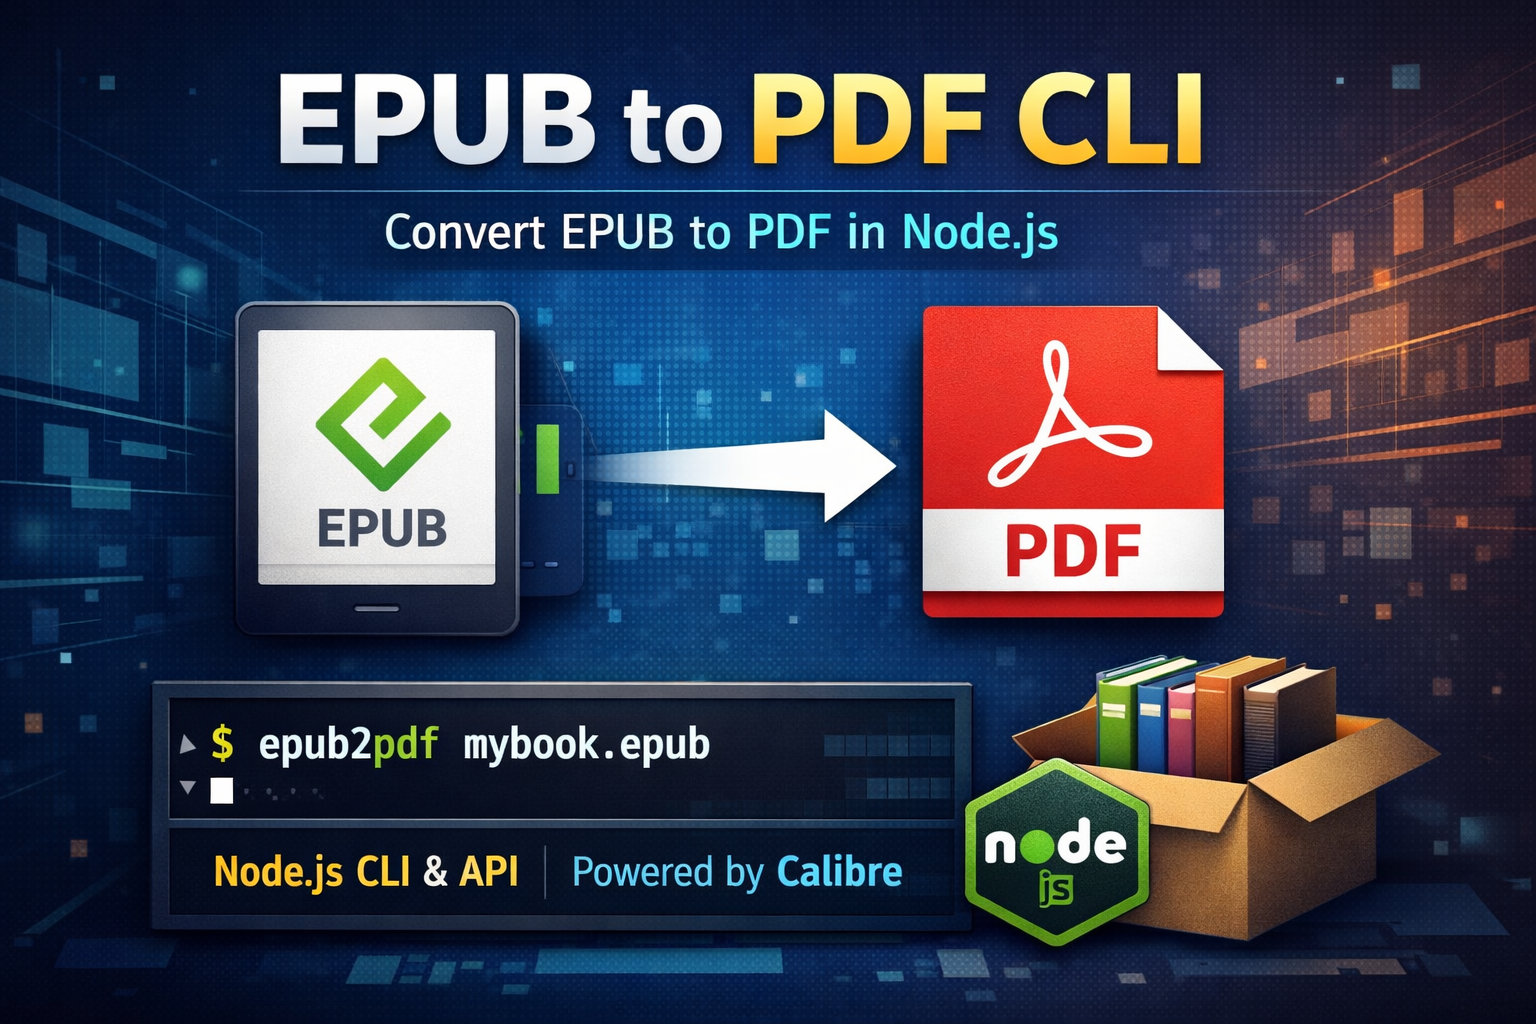
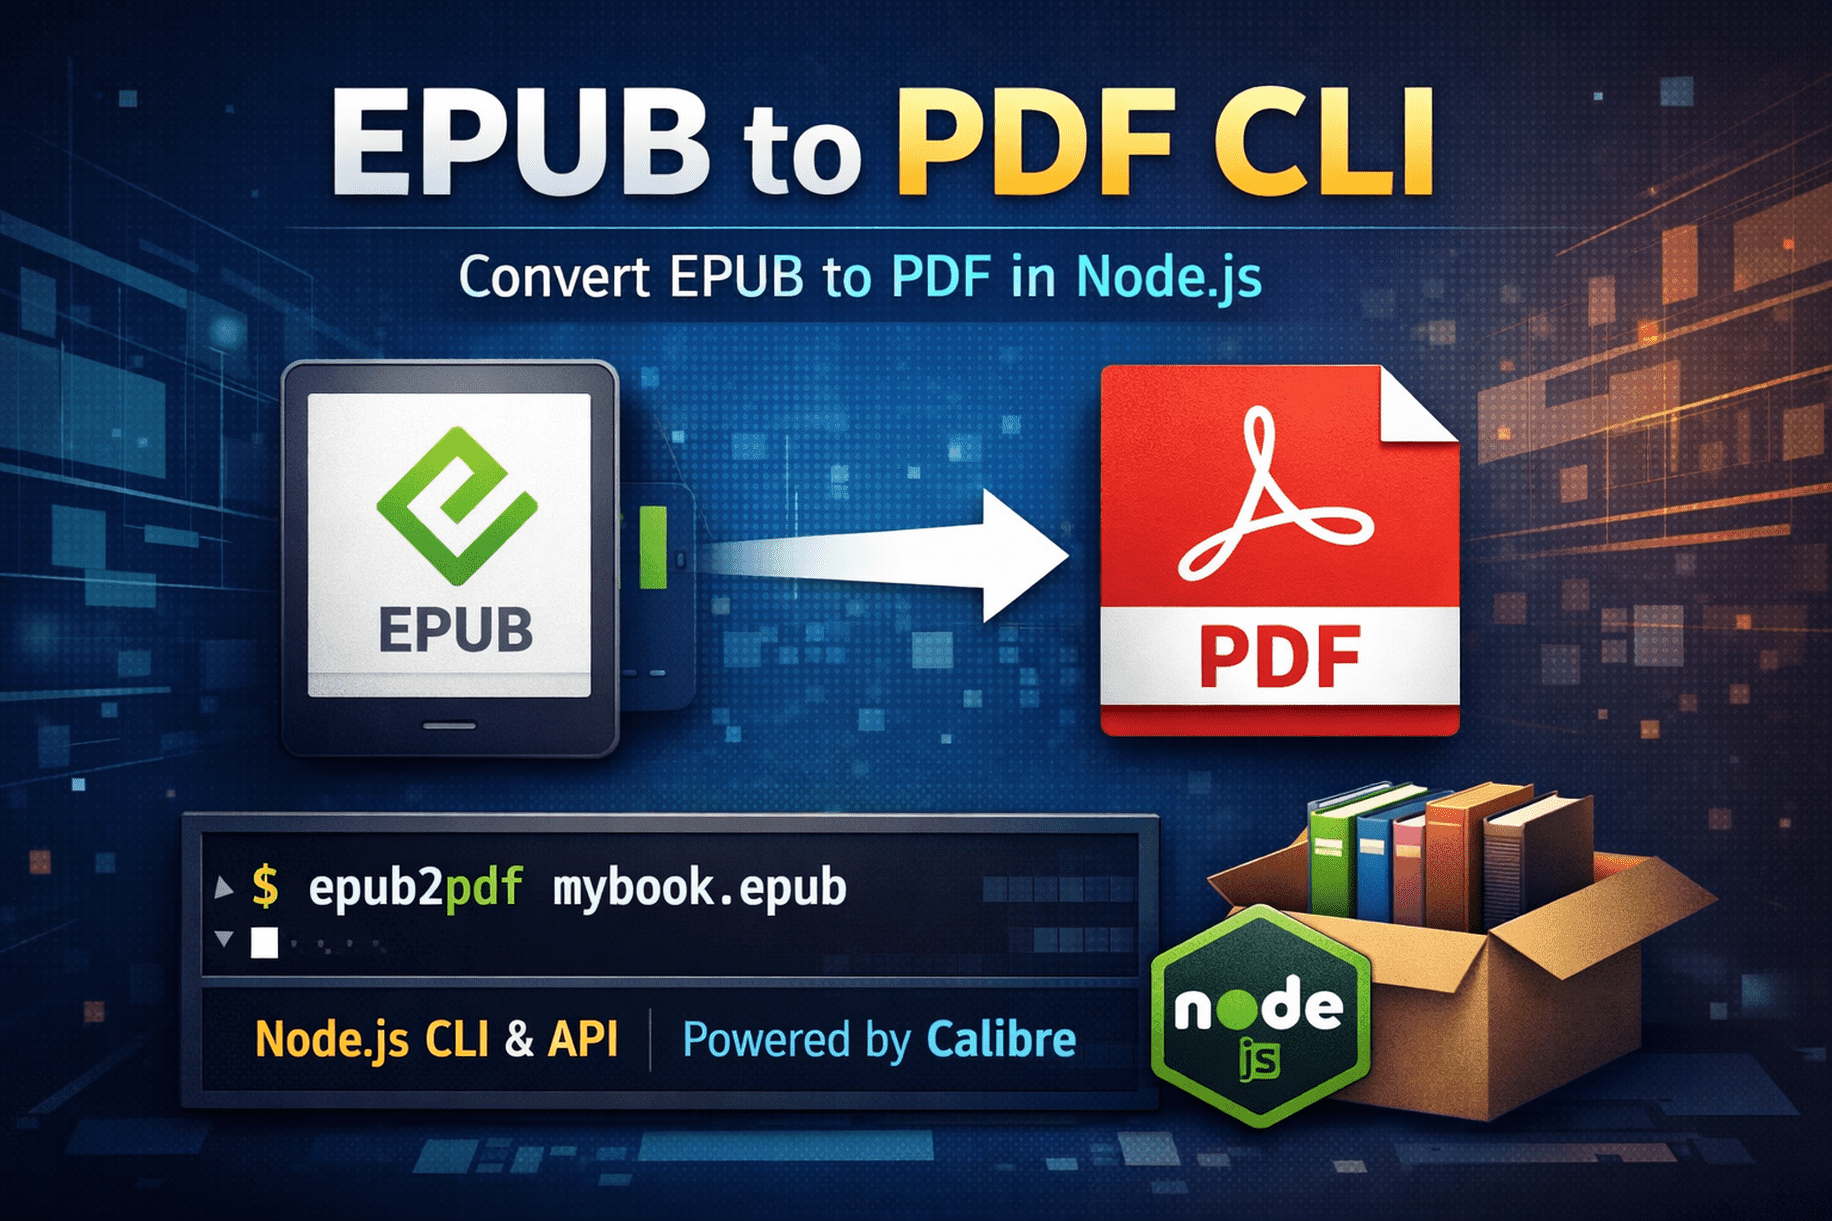
doc:updated

Changed region(s): [[0.875, 0.6875, 0.9062, 0.7188], [0.75, 0.7188, 0.7812, 0.75], [0.125, 0.7188, 0.1562, 0.75]]

diff --git a/README.md b/README.md
@@ -2,6 +2,8 @@
 ![npm](https://img.shields.io/npm/dt/epub-to-pdf-cli)
 ![license](https://img.shields.io/npm/l/epub-to-pdf-cli)
 ![node](https://img.shields.io/node/v/epub-to-pdf-cli)
+![EPUB to PDF CLI](https://raw.githubusercontent.com/surajsutar7/epub-to-pdf-cli/main/assets/epub-to-pdf-cli-og.png)
+
 
 # # 📘 EPUB to PDF CLI – Node.js EPUB to PDF Converter using Calibre
 
